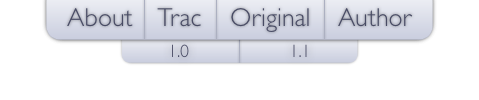
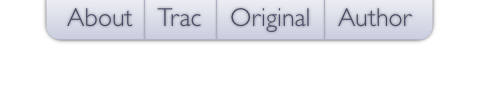
Remove version sub menu in Web

Changed region(s): [[0.2338, 0.39, 0.7599, 0.66]]

diff --git a/style.css b/style.css
@@ -54,21 +54,25 @@ a:hover {
     border-bottom-style:solid !important;
 }
 #comments {
+    position:           absolute;
+    z-index:            90;
+
+    top:                50px;
+    left:               50%;
     width:              30em;
     height:             3em;
-    margin:             -260px auto 5em;
+    margin-left:        -15em;
 
-    color:              #99C;
+    color:              #669;
     font-style:         italic;
 }
     #comments form {
         position:       relative;
-        z-index:        2;
+        z-index:        91;
         overflow:       hidden;
 
         height:         2em;
 
-        color:          #000250;
         font-style:     normal;
     }
     #comments form:hover {
@@ -77,9 +81,9 @@ a:hover {
 
         border:         1px solid #5F6CA0;
         background:     white;
+        color:          #000250;
     }
     #comments form p {
-        color:          #66C;
         font-size:      8pt;
         font-style:     italic;
     }
@@ -129,7 +133,7 @@ sup {
 }
 #menu {
     position:           absolute;
-    z-index:            98;
+    z-index:            88;
 
     top:                0;
     left:               50%;
@@ -175,7 +179,7 @@ sup {
     }
 #submenu {
     position:           absolute;
-    z-index:            99;
+    z-index:            89;
 
     top:                40px;
     left:               50%;
@@ -263,7 +267,7 @@ object {
     border:             none;
     background:         black;
     position:           relative;
-    z-index:            89;
+    z-index:            79;
 }
 #preview {
     position:           relative;

diff --git a/index.php b/index.php
@@ -11,7 +11,7 @@
     elseif(isset($_GET['test']))
         $target = 'test';
 
-    $version = '110';
+    $version = readlink("current");
     if(isset($_GET['v']))
         if($_GET['v'] == '1.0' || $_GET['v'] == '100')
             $version = '100';
@@ -160,12 +160,12 @@
                     <a href="http://lhunath.lyndir.com"
                         onclick="pageTracker._trackPageview(this.href.replace(/^[a-z]+:\/\//i, '/external/'));"></a></li>
             </ul>
-            <ul id="submenu">
+            <!--ul id="submenu">
                 <li class="a<?=($target == 'about' && $version == '100')? " active": ""?>">
                     <a href="/?about&amp;v=1.0"></a></li>
                 <li class="b<?=($target == 'about' && $version == '110')? " active": ""?>">
                     <a href="/?about&amp;v=1.1"></a></li>
-            </ul>
+            </ul-->
         </div>
 
         <div id="back">
@@ -199,8 +199,9 @@
             <? } ?>
             
             <form action="<?="?$target&amp;v=$version"?>" method="POST">
-                <p>Leave <b>your</b> impression!</p>
-                <p>Try to keep it short and sweet.</p>
+                <p>Post <b>your</b> impression.</p>
+                <p>Got a comment, opinion, impression or question?<br />
+                    Don't forget to leave your email address if you'd like me to get back to you.</p>
 
                 <label for="user">Name or email:</label>
                 <input type="text" name="name" id="name" value="<?=htmlspecialchars($name)?>" />
